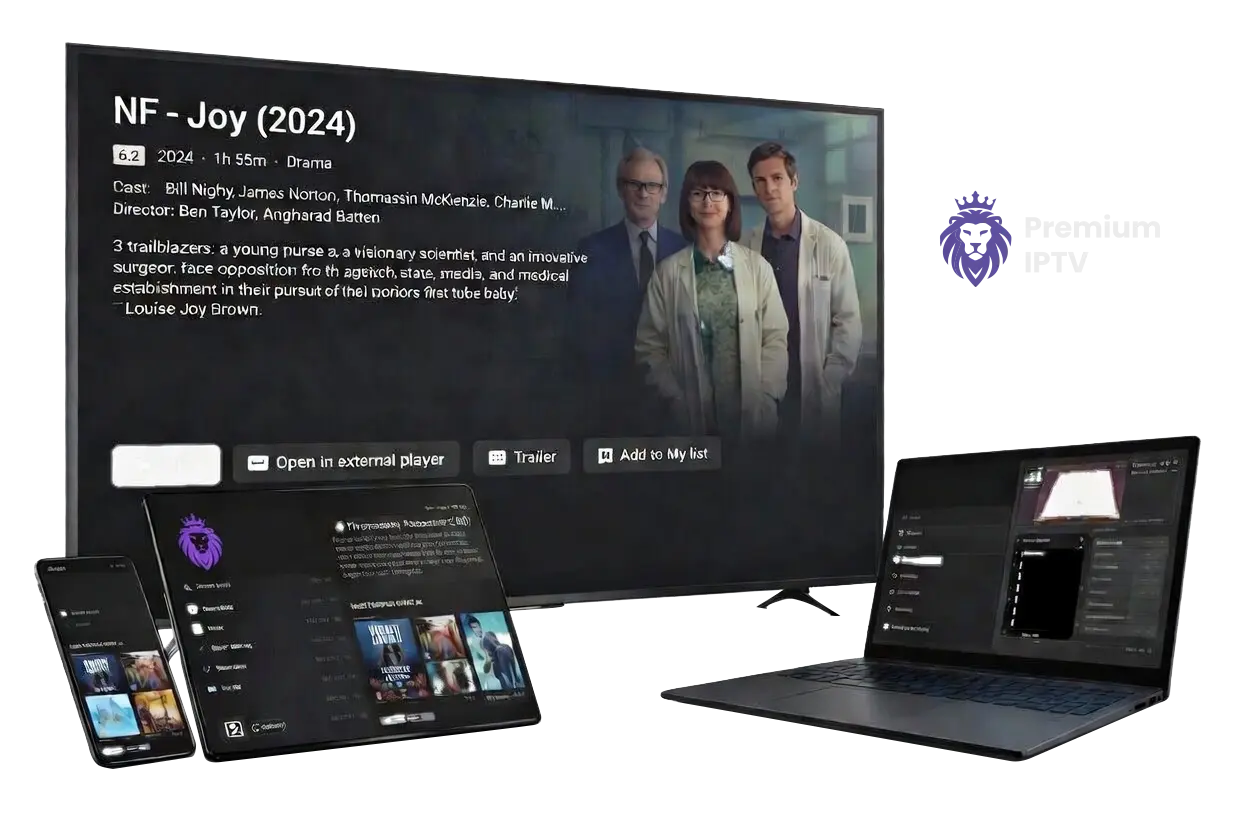
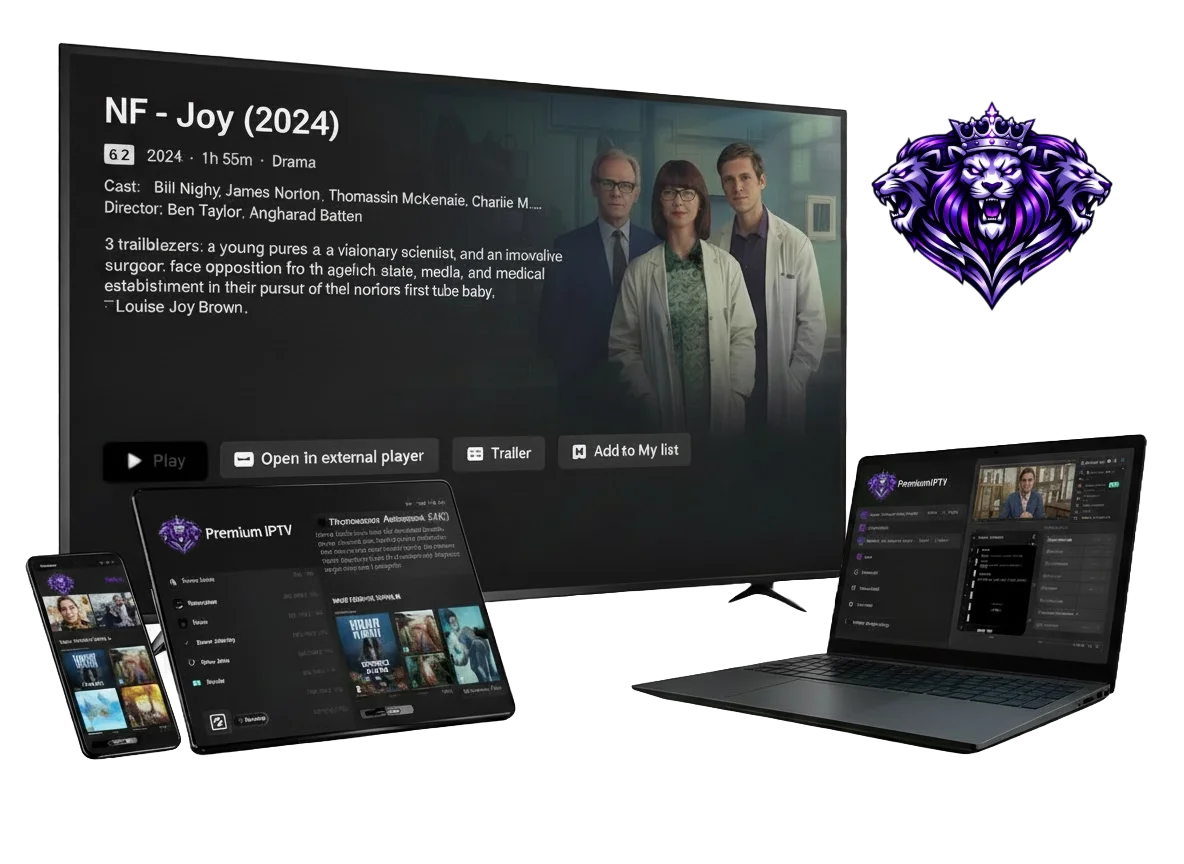
Commit Changes: update small changes on contents

Changed region(s): [[0.0, 0.0625, 0.9688, 0.9375], [0.1562, 0.0625, 0.4062, 0.0938], [0.0625, 0.0312, 0.125, 0.0625]]

diff --git a/iptv/app/pricing/page.tsx b/iptv/app/pricing/page.tsx
@@ -156,7 +156,7 @@ export default function PricingPage() {
         <nav className="breadcrumbs" aria-label="Breadcrumb">
           <div className="section-container">
             <ol>
-              <li><a href="/">Home</a></li>
+              <li><Link href="/">Home</Link></li>
               <li aria-current="page">Pricing</li>
             </ol>
           </div>
@@ -170,7 +170,7 @@ export default function PricingPage() {
               IPTV Premium UK Plans 2026 &mdash; Best IPTV Subscription UK Prices | Instant Activation
             </h1>
             <h2 className="pricing-subtitle">
-              Choose the perfect IPTV Premium UK plan for your needs in 2026. Every IPTV Premium UK subscription includes 37,000+ live UK channels, 198,000+ movies & series in 4K, built-in VPN, anti-freeze technology, 24/7 UK support, and full compatibility with all devices. No contracts, no hidden fees, and 30-day money-back guarantee on every IPTV Premium UK plan.
+              Every IPTV Premium UK plan includes 4K UHD streams, built-in VPN, anti-freeze technology, full UK channels, 24/7 support, and a 30-day money-back guarantee.
             </h2>
 
             <div className="spacer-30"></div>
@@ -297,34 +297,34 @@ export default function PricingPage() {
           <div className="section-container">
             <h2 className="section-title white">What Is Included in Every IPTV Premium UK Plan</h2>
             <p className="section-intro">
-              Every IPTV Premium UK subscription &mdash; whether monthly or annual &mdash; includes the complete Premium IPTV experience with no feature restrictions.
+              Every IPTV Premium UK subscription &mdash; whether monthly or annual &mdash; includes the complete Premium IPTV experience with no feature restrictions, delivering a true British IPTV 4K service to your living room.
             </p>
             <div className="spacer-30"></div>
             <div className="features-grid">
               <div className="feature-card">
                 <div className="feature-icon"><Icon name="tv" /></div>
-                <h3 className="feature-title">Full Channel Access</h3>
+                <h3 className="feature-title">British IPTV 4K Entertainment</h3>
                 <p className="feature-desc">
                   You receive every channel in our lineup from day one, including 37,000+ live channels with complete UK coverage. Nothing is locked behind a higher tier. <a href="/channels">Browse the full channel list &rarr;</a>
                 </p>
               </div>
               <div className="feature-card">
                 <div className="feature-icon"><Icon name="film" /></div>
-                <h3 className="feature-title">On-Demand Library</h3>
+                <h3 className="feature-title">Movies & IPTV UK 4K VOD</h3>
                 <p className="feature-desc">
                   198,000+ films and series updated daily. Search, browse by category, and watch instantly &mdash; included at no extra cost.
                 </p>
               </div>
               <div className="feature-card">
                 <div className="feature-icon"><Icon name="calendar-alt" /></div>
-                <h3 className="feature-title">EPG &amp; Catch-Up</h3>
+                <h3 className="feature-title">Fast IPTV News &amp; Documentary</h3>
                 <p className="feature-desc">
                   A proper electronic programme guide lets you see what is on now and coming up. The 7-day catch-up feature means you never miss a programme.
                 </p>
               </div>
               <div className="feature-card">
                 <div className="feature-icon"><Icon name="laptop" /></div>
-                <h3 className="feature-title">Multi-Device Streaming</h3>
+                <h3 className="feature-title">Cheap IPTV for Family & Kids</h3>
                 <p className="feature-desc">
                   Use your subscription on up to 5 devices at the same time. Works on Firestick, Android, iOS, Smart TVs, MAG boxes, computers, and more.
                 </p>
@@ -343,22 +343,22 @@ export default function PricingPage() {
         <section className="steps-section" id="how-to-subscribe">
           <div className="section-container">
             <h2 className="section-title white">How to Get Your IPTV Premium UK Subscription &mdash; 3 Simple Steps</h2>
-            <p className="section-intro">Start streaming in minutes. No technical setup stress, no delays, and no contract lock-ins.</p>
+            <p className="section-intro">Start streaming in minutes. If you want to buy IPTV subscription with no technical setup stress, no delays, and no contract lock-ins, just follow these steps:</p>
             <div className="spacer-30"></div>
             <div className="steps-grid">
               <div className="step-card">
                 <div className="step-number">1</div>
-                <h3>Step 1 &mdash; Choose Your Plan</h3>
+                <h3>Step 1 &mdash; Pick Your Best IPTV UK Subscription</h3>
                 <p>Pick the plan that suits you best. Every plan includes the full service from day one, and longer plans offer the best savings.</p>
               </div>
               <div className="step-card">
                 <div className="step-number">2</div>
-                <h3>Step 2 &mdash; Get Your Account in Minutes</h3>
+                <h3>Step 2 &mdash; Get Fast IPTV Activation in Minutes</h3>
                 <p>As soon as payment is confirmed, your login details are sent by email. No waiting around and no complicated activation process.</p>
               </div>
               <div className="step-card">
                 <div className="step-number">3</div>
-                <h3>Step 3 &mdash; Start Watching Straight Away</h3>
+                <h3>Step 3 &mdash; Start Watching British IPTV 4K</h3>
                 <p>Open your IPTV app, enter your details, and press play. Setup takes under two minutes, and our team is ready to help if needed.</p>
               </div>
             </div>
@@ -383,7 +383,7 @@ export default function PricingPage() {
                     <Icon name="chevron-down" />
                   </button>
                   <div className="faq-answer">
-                    <p>No. The price shown is the total cost. There are no activation fees, no per-channel charges, and no hidden costs. Your subscription includes everything listed on this page.</p>
+                    <p>No. The price shown is the total cost. Unlike some other IPTV providers UK, there are no activation fees, no per-channel charges, and no hidden costs. Your subscription includes everything listed on this page.</p>
                   </div>
                 </div>
                 <div className="faq-item">
@@ -436,7 +436,7 @@ export default function PricingPage() {
               If you are new to IPTV and want to test the service before committing, the 3-month plan is ideal. It gives you full access to everything so you can evaluate channel quality, streaming reliability, and the VOD library with minimal commitment.
             </p>
             <p className="cta-subtitle">
-              If you already know you want IPTV and are looking for the best value, the 12-month and 24-month plans offer the strongest savings compared with shorter plans.
+              If you already know you want IPTV and are looking for a high-quality yet cheap IPTV alternative to expensive cable bills, the 12-month and 24-month plans offer the strongest savings compared with shorter plans.  
             </p>
             <div className="spacer-20"></div>
             <Link href="#pricing" className="btn-primary btn-medium">Subscribe Now &rarr;</Link>

diff --git a/iptv/components/Footer.tsx b/iptv/components/Footer.tsx
@@ -14,12 +14,12 @@ export default function Footer() {
             Get Your IPTV Premium UK Subscription Today
           </h2>
           <p className="cta-subtitle">
-            Join over 50,000 happy UK customers. Watch every channel you love in stunning 4K with IPTV Premium UK. No buffering. No contracts. No nonsense. Start your IPTV Premium UK subscription today and save up to 50%.
+            Join over 50,000 happy UK customers. Watch every channel you love in stunning 4K with the ultimate IPTV UK 4K service. No buffering. No contracts. No nonsense. Start your IPTV Premium UK subscription today and save up to 50%.
           </p>
           <div className="spacer-30"></div>
-          <a href="/pricing" className="btn-outline-white btn-medium">
+          <Link href="/pricing" className="btn-outline-white btn-medium">
             Get Started Now &mdash; 30-Day Money Back Guarantee
-          </a>
+          </Link>
         </div>
       </section>
 
@@ -46,12 +46,12 @@ export default function Footer() {
             </div>
             <div className="footer-col">
               <h4 className="footer-heading">Quick Links</h4>
-              <p className="footer-text"><a href="/">Home</a></p>
-              <p className="footer-text"><a href="/pricing">Pricing</a></p>
-              <p className="footer-text"><a href="/best-iptv-uk">Best IPTV UK Guide</a></p>
-              <p className="footer-text"><a href="/channels">Channels</a></p>
-              <p className="footer-text"><a href="/setup">Setup Guides</a></p>
-              <p className="footer-text"><a href="/faq">FAQ</a></p>
+              <p className="footer-text"><Link href="/">Home</Link></p>
+              <p className="footer-text"><Link href="/pricing">Pricing</Link></p>
+              <p className="footer-text"><Link href="/guide">Best IPTV UK Guide</Link></p>
+              <p className="footer-text"><Link href="/channels">Channels</Link></p>
+              <p className="footer-text"><Link href="/setup">Setup Guides</Link></p>
+              <p className="footer-text"><Link href="/faq">FAQ</Link></p>
             </div>
             <div className="footer-col">
               <h4 className="footer-heading">Contact</h4>
@@ -67,9 +67,9 @@ export default function Footer() {
         </div>
       </footer>
 
-      <a href="#" className="scroll-to-top" id="scroll-to-top" aria-label="Scroll to top">
+      <Link href="#" className="scroll-to-top" id="scroll-to-top" aria-label="Scroll to top">
         <Icon name="chevron-up" />
-      </a>
+      </Link>
     </>
   );
 }

diff --git a/iptv/components/Header.tsx b/iptv/components/Header.tsx
@@ -28,18 +28,18 @@ export default function Header() {
                 </Link>
               </li>
               <li>
-                <Link href="/#why-us" className="nav-link">
-                  Why Choose
-                </Link>
-              </li>
-              <li>
                 <Link href="/pricing" className="nav-link">
                   Pricing
                 </Link>
               </li>
               <li>
-                <Link href="/best-iptv-uk" className="nav-link">
+                <Link href="/guide" className="nav-link">
                   Guide
+                </Link>
+              </li>
+              <li>
+                <Link href="/faq" className="nav-link">
+                  FAQ
                 </Link>
               </li>
             </ul>
@@ -78,22 +78,22 @@ export default function Header() {
         <nav className="mobile-nav">
           <ul>
             <li>
-              <a href="/">Home</a>
+              <Link href="/">Home</Link>
             </li>
             <li>
-              <a href="/#why-us">Why Choose</a>
+              <Link href="/pricing">Pricing</Link>
             </li>
             <li>
-              <a href="/pricing">Pricing</a>
+              <Link href="/guide">Guide</Link>
             </li>
             <li>
-              <a href="/best-iptv-uk">Guide</a>
+              <Link href="/faq">FAQ</Link>
             </li>
           </ul>
         </nav>
-        <a href="/pricing" className="btn-mobile-cta">
+        <Link href="/pricing" className="btn-mobile-cta">
           Get Started Now
-        </a>
+        </Link>
       </div>
     </>
   );

diff --git a/iptv/app/setup/page.tsx b/iptv/app/setup/page.tsx
@@ -2,6 +2,7 @@ import Footer from "@/components/Footer";
 import Header from "@/components/Header";
 
 import type { Metadata } from "next";
+import Link from "next/link";
 
 export const metadata: Metadata = {
   title: "Setup Guides — Install IPTV on Any Device | Premium IPTV",
@@ -16,7 +17,7 @@ export default function SetupPage() {
         <nav className="breadcrumbs" aria-label="Breadcrumb">
           <div className="section-container">
             <ol>
-              <li><a href="/">Home</a></li>
+              <li><Link href="/">Home</Link></li>
               <li aria-current="page">Setup Guides</li>
             </ol>
           </div>
@@ -51,7 +52,7 @@ export default function SetupPage() {
               <p>Our support team is available [HOURS/24/7] to help you set up your device. Contact us via [CHANNELS: live chat, email, WhatsApp] for personal assistance at no extra charge.</p>
               <div className="spacer-30"></div>
               <div style={{ textAlign: "center" }}>
-                <a href="/pricing" className="btn-primary btn-large">Get Your Subscription &rarr;</a>
+                <Link href="/pricing" className="btn-primary btn-large">Get Your Subscription &rarr;</Link>
               </div>
             </div>
           </div>

diff --git a/iptv/app/iptv-subscription-guide/page.tsx b/iptv/app/iptv-subscription-guide/page.tsx
@@ -2,6 +2,7 @@ import Footer from "@/components/Footer";
 import Header from "@/components/Header";
 
 import type { Metadata } from "next";
+import Link from "next/link";
 
 export const metadata: Metadata = {
   title: "IPTV Subscription Guide — How IPTV Works | Premium IPTV",
@@ -16,7 +17,7 @@ export default function IptvGuidePage() {
         <nav className="breadcrumbs" aria-label="Breadcrumb">
           <div className="section-container">
             <ol>
-              <li><a href="/">Home</a></li>
+              <li><Link href="/">Home</Link></li>
               <li aria-current="page">IPTV Subscription Guide</li>
             </ol>
           </div>

diff --git a/iptv/app/iptv-reviews/page.tsx b/iptv/app/iptv-reviews/page.tsx
@@ -3,6 +3,7 @@ import Header from "@/components/Header";
 import Icon from "@/components/Icon";
 
 import type { Metadata } from "next";
+import Link from "next/link";
 
 export const metadata: Metadata = {
   title: "Customer Reviews — What UK Viewers Say | Premium IPTV",
@@ -17,7 +18,7 @@ export default function ReviewsPage() {
         <nav className="breadcrumbs" aria-label="Breadcrumb">
           <div className="section-container">
             <ol>
-              <li><a href="/">Home</a></li>
+              <li><Link href="/">Home</Link></li>
               <li aria-current="page">Reviews</li>
             </ol>
           </div>

diff --git a/iptv/app/refund-policy/page.tsx b/iptv/app/refund-policy/page.tsx
@@ -2,6 +2,7 @@ import Footer from "@/components/Footer";
 import Header from "@/components/Header";
 
 import type { Metadata } from "next";
+import Link from "next/link";
 
 export const metadata: Metadata = {
   title: "Refund Policy — Premium IPTV UK",
@@ -16,7 +17,7 @@ export default function RefundPolicyPage() {
         <nav className="breadcrumbs" aria-label="Breadcrumb">
           <div className="section-container">
             <ol>
-              <li><a href="/">Home</a></li>
+              <li><Link href="/">Home</Link></li>
               <li aria-current="page">Refund Policy</li>
             </ol>
           </div>

diff --git a/iptv/components/TestimonialsSection.tsx b/iptv/components/TestimonialsSection.tsx
@@ -8,8 +8,8 @@ export default function TestimonialsSection() {
       <div className="section-container">
         <div className="stars-rating">
           <Image
-            src="/5-stars-1-copy.webp"
-            alt="Five-star Premium IPTV UK reviews"
+            src="/iptv-premium-uk-5-stars.webp"
+            alt="iptv premium uk 5 stars"
             width={200}
             height={41}
             loading="lazy"

diff --git a/iptv/app/globals.css b/iptv/app/globals.css
@@ -1384,6 +1384,7 @@ section[id] { scroll-margin-top: 88px; }
 @media (max-width: 767px) {
   .channels-section { padding: 60px 0; }
   .channels-grid { grid-template-columns: 1fr; }
+  .channel-category { grid-column: auto;}
   .steps-section { padding: 60px 0; }
   .steps-grid { grid-template-columns: 1fr; }
   .steps-grid.steps-grid-5 { grid-template-columns: 1fr; }

diff --git a/iptv/components/HeroSection.tsx b/iptv/components/HeroSection.tsx
@@ -34,8 +34,8 @@ export default function HeroSection() {
         </div>
         <div className="hero-image">
           <Image
-            src="/premium iptv.webp"
-            alt="IPTV uk"
+            src="/iptv-premium-uk.webp"
+            alt="iptv premium uk"
             width={600}
             height={400}
             preload

diff --git a/iptv/app/page.tsx b/iptv/app/page.tsx
@@ -1,6 +1,5 @@
 import Footer from "@/components/Footer";
 import Header from "@/components/Header";
-import Icon from "@/components/Icon";
 import HeroSection from "@/components/HeroSection";
 import WhyUsSection from "@/components/WhyUsSection";
 import ProviderSection from "@/components/ProviderSection";
